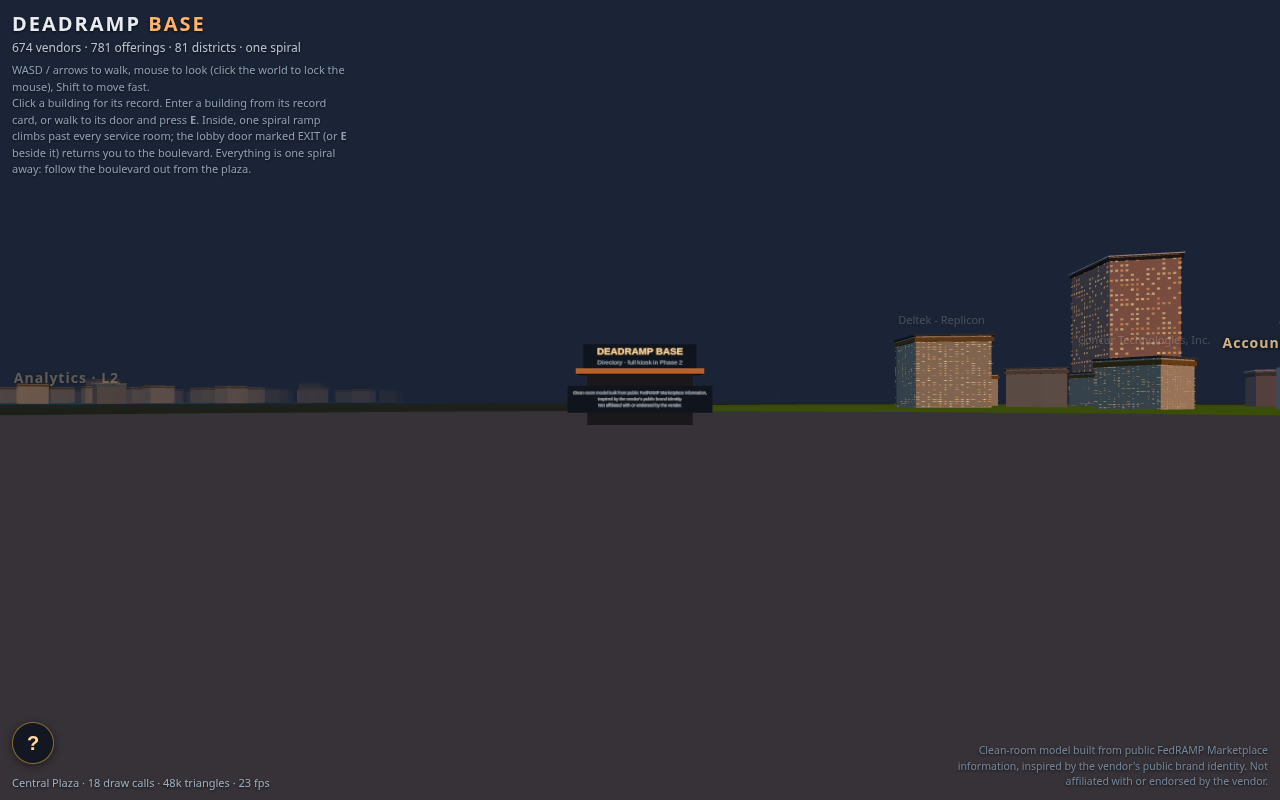
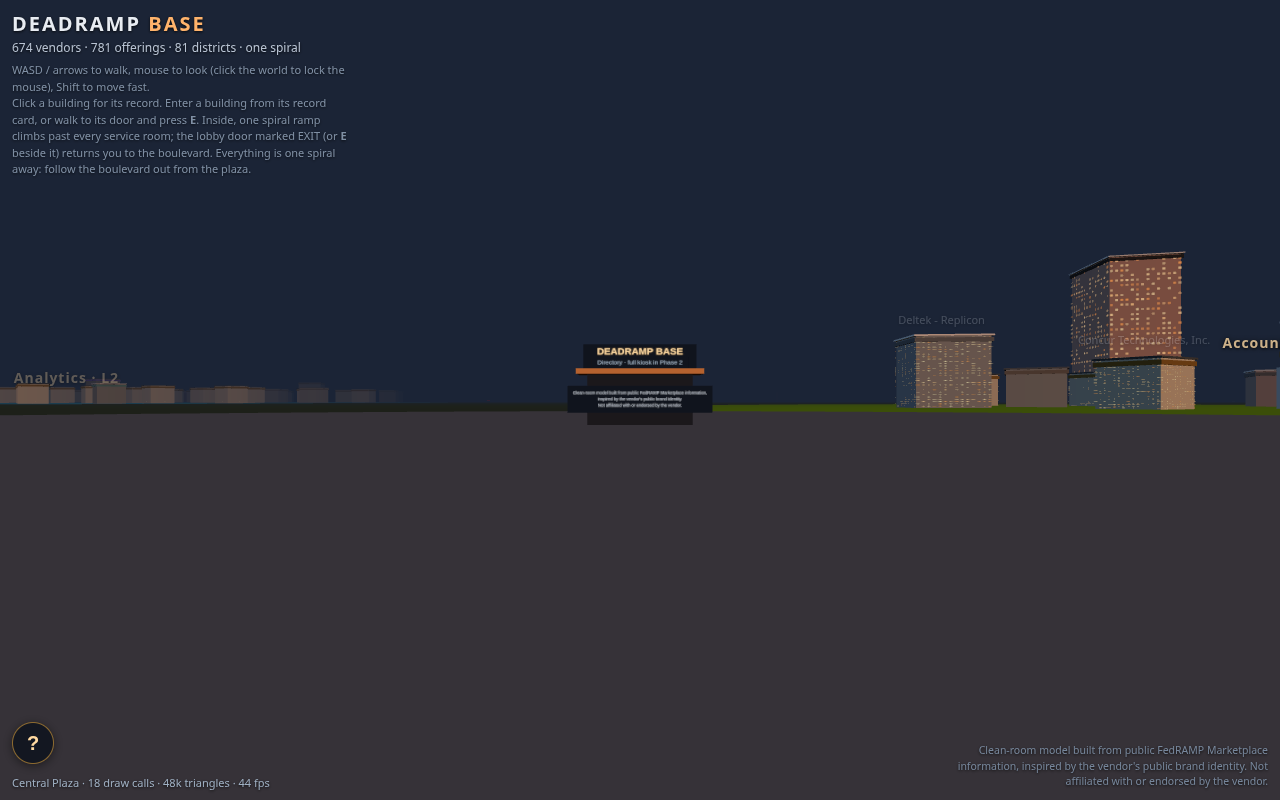
v0.3.1: Phase 4 brand research tranche 1, 24 vendors researched
Researched palettes rise from 77 to 101 of 674, largest remaining
vendors first, every seed carrying its citable source in the exporter.
16 tranche vendors stayed on the federal finish on the record, one
listing rejected for contradicting its own identity. Fidelity suite
and full site suite green on main-side re-verification.

Changed region(s): [[0.6875, 0.4062, 0.7812, 0.5312]]

diff --git a/tools/export-catalog.js b/tools/export-catalog.js
@@ -214,6 +214,74 @@ const BRAND_SEEDS = {
   'Thomson Reuters': { primary: '#ff8000', secondary: '#1a1a1a', accent: '#ffffff' },
   'Axon': { primary: '#111111', secondary: '#ffffff', accent: '#ffd500' },
   'Qlik Technologies Inc.': { primary: '#009845', secondary: '#1a1a1a', accent: '#ffffff' },
+  /* ---- Phase 4 brand research, tranche 1 (Nov 15, 2026) ----
+   * The 40 highest-offering-count default vendors, researched one by
+   * one. 24 were established from a citable public source (recorded
+   * per entry below) and are seeded here; the other 16 stay on the
+   * federal default because no fetched source states their brand
+   * colors as hex values (among them Casepoint, whose only listing
+   * contradicts its own identity description, and Kiteworks, whose
+   * official media kit shows its palette as an image with no hex
+   * text). Every value below appears in its cited source. */
+  // Brandfetch brand page (Tango, Cobalt, Jagged Ice): https://brandfetch.com/projecthosts.com
+  'Project Hosts Inc.': { primary: '#f36d21', secondary: '#003ca5', accent: '#b6e3d4' },
+  // Brandfetch brand page (Bay of Many, Turquoise Blue, Black): https://brandfetch.com/stackarmor.com
+  'stackArmor': { primary: '#244d80', secondary: '#000000', accent: '#4aeadc' },
+  // Brandfetch brand page (Blue, White, Cod Gray): https://brandfetch.com/trellix.com
+  'Trellix': { primary: '#2814ff', secondary: '#ffffff', accent: '#1a1a1a' },
+  // Brandfetch brand page (Mariner, Midnight, Lightning Yellow): https://brandfetch.com/unisonglobal.com
+  'Unison': { primary: '#2e76bc', secondary: '#00133d', accent: '#f8b625' },
+  // AvePoint's own G-Cloud document header: PRIMARY COLORS AvePoint Red / AvePoint Indigo,
+  // SECONDARY ACCENT COLORS Mint (Sunrise #fdca41 also listed): https://assets.applytosupply.digitalmarketplace.service.gov.uk/g-cloud-15/documents/92331/307940440573590-pricing-document-2026-01-29-1101.pdf
+  'AvePoint Inc.': { primary: '#ef3b39', secondary: '#3027e2', accent: '#18e9ba' },
+  // Brandfetch colors collection for CGI (Crimson, Gigas, Mine Shaft, White): https://brandfetch.com/cgi.com
+  'CGI Federal': { primary: '#e11937', secondary: '#ffffff', accent: '#5236ab' },
+  // Commvault Brand Guidelines v3, Color chapter, Primary Colors (Peacoat, Cloud, Storm, Raspberry): https://preprod-commvault-legacy.pantheonsite.io/wp-content/uploads/2021/09/Commvault-Brand-Guidelines.pdf
+  'Commvault Systems, Inc.': { primary: '#0b2e44', secondary: '#ddeaf3', accent: '#ff4a6a' },
+  // Brandfetch brand page for Exiger (near-black ground, slate, violet accent): https://brandfetch.com/exiger.com
+  'Covergent Solutions Inc dba Exiger Government Solutions (EGS)': { primary: '#121318', secondary: '#4b4e5a', accent: '#8b6eff' },
+  // Brandfetch brand page for Deltek: https://brandfetch.com/deltek.com
+  'Deltek - Replicon': { primary: '#0063a3', secondary: '#ffffff', accent: '#72767b' },
+  // Docusign's own brand guidelines color page (Cobalt is the primary brand color;
+  // Inkwell a secondary; Poppy the accent): https://brand.docusign.com/color
+  'DocuSign': { primary: '#4c00ff', secondary: '#130032', accent: '#ff5252' },
+  // Brandfetch brand page: https://brandfetch.com/dynatrace.com
+  'Dynatrace': { primary: '#3481f4', secondary: '#000000', accent: '#ffffff' },
+  // HP Visual Identity 2022 logo guidelines: the logo colors are Black, White and
+  // HP Corporate blue; the blue's hex (0096D6, Pantone 2925 C) is stated in HP's logo
+  // specification documents: https://cdn.relayto.com/media/files/HP_Logo_Guidelines_2.0_3e28e05e435848fd89e8d1442689a548.pdf
+  'HP Inc.': { primary: '#0096d6', secondary: '#ffffff', accent: '#000000' },
+  // Ivanti Brand Expression Guide (August 2025), Colors page primary scale
+  // (Ivanti Red #ff1515 is the named logo color; deep purple and orange are the scale anchors): https://palti.com.co/wp-content/uploads/2026/01/Ivanti-Brand-Expression-Guide-compressed.pdf
+  'Ivanti': { primary: '#ff1515', secondary: '#280b3f', accent: '#ff8303' },
+  // Keeper Security's own USPTO trademark application (Serial 97137705), colors claimed
+  // for the mark: Black (000000), Gold (FFC700), White (FFFFFF): https://trademarks.justia.com/971/37/n-97137705.html
+  'Keeper Security': { primary: '#000000', secondary: '#ffffff', accent: '#ffc700' },
+  // Brandfetch brand page, claimed brand (Vermilion, Black, Deep Teal, Aubergine, Vapor): https://brandfetch.com/knowbe4.com
+  'KnowBe4, Inc.': { primary: '#ef4523', secondary: '#101820', accent: '#00293c' },
+  // Brandfetch brand page: https://brandfetch.com/maximus.com
+  'MAXIMUS Inc.': { primary: '#502d90', secondary: '#ffffff', accent: '#4a4a4a' },
+  // NinjaOne Brand Guide v1.5, logotype colors and palette page ("the primary palette
+  // color is blue, paired with a vivid green"): https://images.ninjaone.com/wp-content/uploads/2026/01/NinjaOne-Brand-Guide-v1.5.pdf
+  'NinjaOne': { primary: '#053856', secondary: '#ffffff', accent: '#04ff88' },
+  // Nintex Brand Guidelines v2.2, Colors page (primary: Nintex Orange, Nintex Charcoal;
+  // secondary: Red, Amber, Grey): http://nintexdownload.com/Nsupport/Nintex_Brand_Guidelines.pdf
+  'Nintex': { primary: '#ff7900', secondary: '#323232', accent: '#ff0f00' },
+  // Brandfetch brand page, claimed brand (Blue Ribbon, Big Stone, Island Spice): https://brandfetch.com/skillsoft.com
+  'Skillsoft': { primary: '#1f69fc', secondary: '#151c36', accent: '#fffbee' },
+  // Slack Brand Guidelines, Colors page ("Aubergine is our brand primary color";
+  // Aubergine Null is its surface variant; Blue is the lead logo color): https://a.slack-edge.com/3f2ae/marketing/img/media-kit/Slack-Brand-Guidelines.pdf
+  'Slack Technologies': { primary: '#4a154b', secondary: '#611f69', accent: '#36c5f0' },
+  // Trend Micro's own brand palette page (Trend Red, White, Rich Black): https://resources.trendmicro.com/Hybrid-Cloud-Security-Contact-Us.html
+  'Trend Micro Inc.': { primary: '#d71920', secondary: '#ffffff', accent: '#000000' },
+  // Brandfetch brand page for Tyler Technologies (blue wordmark, deep blue, green): https://brandfetch.com/tylertech.com
+  'Tyler Federal, LLC': { primary: '#1278c0', secondary: '#045590', accent: '#909b48' },
+  // USDA's official Design and Brand page, "USDA Colors": the official logo colors are
+  // Dark Blue #002d72 (PMS 288) and Dark Green #005440 (PMS 343); the same page sets the
+  // logo on a white masthead field: https://www.usda.gov/digital-strategy/design-and-brand/plays
+  'United States Department of Agriculture': { primary: '#002d72', secondary: '#ffffff', accent: '#005440' },
+  // Brandfetch brand page, claimed brand (Royal Blue, Ebony, White): https://brandfetch.com/wiz.io
+  'Wiz, Inc.': { primary: '#325fe8', secondary: '#0f172a', accent: '#ffffff' },
 };
 function brandFor(vendorName) {
   const seed = BRAND_SEEDS[vendorName];

diff --git a/release-notes-v0.3.1.md b/release-notes-v0.3.1.md
@@ -1,0 +1,13 @@
+## Why
+
+Phase 4 opens with the brand layer. A building is recognizable as its vendor before you read the sign only if its colors are that vendor's real public identity, and the Base's integrity rule has never bent on this: a palette is seeded only when a citable public source establishes it, and every other vendor wears the neutral federal finish rather than an invented scheme. This release is the first research tranche of that pass, taking the largest remaining vendors first, the ones whose buildings anchor their districts.
+
+## What is new
+
+- 24 more vendors now wear their own researched colors, 101 of 674 researched in total: Project Hosts, stackArmor, Trellix, Unison, AvePoint, CGI Federal, Commvault, Exiger, Deltek (Replicon), DocuSign, Dynatrace, HP, Ivanti, Keeper Security, KnowBe4, MAXIMUS, NinjaOne, Nintex, Skillsoft, Slack, Trend Micro, Tyler Federal, the U.S. Department of Agriculture, and Wiz. Every seed records its source in the exporter: the vendor's own brand guidelines where they publish them (Commvault, DocuSign, Ivanti, NinjaOne, Nintex, Slack, Trend Micro, USDA), a trademark filing in Keeper Security's case, and established brand listings for the rest.
+- 16 vendors in the same tranche stayed on the federal finish, on the record: their colors could not be established as published hex values from a citable source. One listing was rejected outright because it contradicted the identity it claimed to describe. Staying default is the rule working, not a gap.
+- Nothing else changed: the catalog's facts, layout, and rooms are byte-for-byte what they were, proven by the fidelity suite below.
+
+## Verification
+
+Exporter fidelity tests pass in full: 781 offerings and 674 vendors, every offering field byte-equal to the registry, deterministic byte-identical re-export, both mutation negative controls exact, and the brand-integrity checks (no dead seeds, researched count equals the seed table, every default vendor wearing exactly the federal finish). The full site suite passes with zero JavaScript errors. Spot checks on the new seeds (DocuSign, Slack, Trellix, USDA) match their sources.
